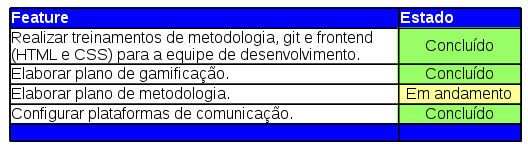
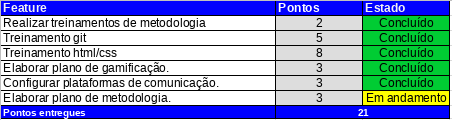
Refactored docs of sprint 0.

diff --git a/docs/sprints/sprint0/planning.md b/docs/sprints/sprint0/planning.md
@@ -8,15 +8,17 @@
 
 **Duração:** Uma Semana
 
-**Pontos Planejados**: As features não foram pontuadas para essa _Sprint_.
+**Pontos Planejados**: 24
 
-**Pontos Adicionados**: --
+**Pontos Adicionados**: 0
 
-**Pontos Totais**: --
+**Pontos Totais**: 24
 
 -------
 ## 1. Features da _Sprint_
-* Realizar treinamentos de metodologia, git e frontend (HTML e CSS) para a equipe de desenvolvimento.
+* Realizar treinamento de metodologia.
+* Realizar treinamento _git_.
+* Realizar treinamento frontend (HTML e CSS).
 * Elaborar plano de gamificação.
 * Elaborar plano de metodologia.
 * Configurar plataformas de comunicação.

diff --git a/docs/sprints/sprint0/results.md b/docs/sprints/sprint0/results.md
@@ -1,3 +1,4 @@
+# Resultados da Sprint 0  
 ------
 
 [1. Indicadores de Qualidade do Processo](#1-indicadores-de-qualidade-do-processo)
